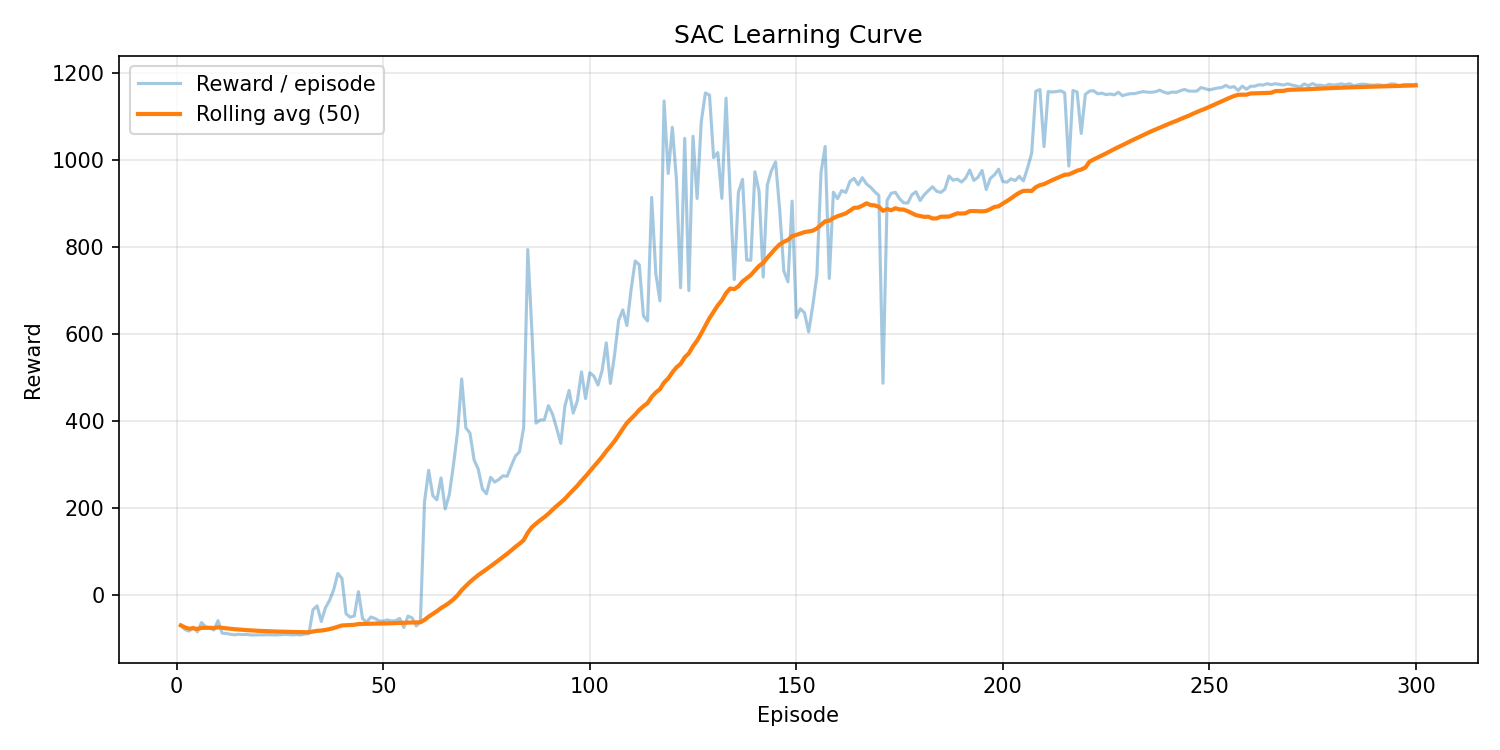
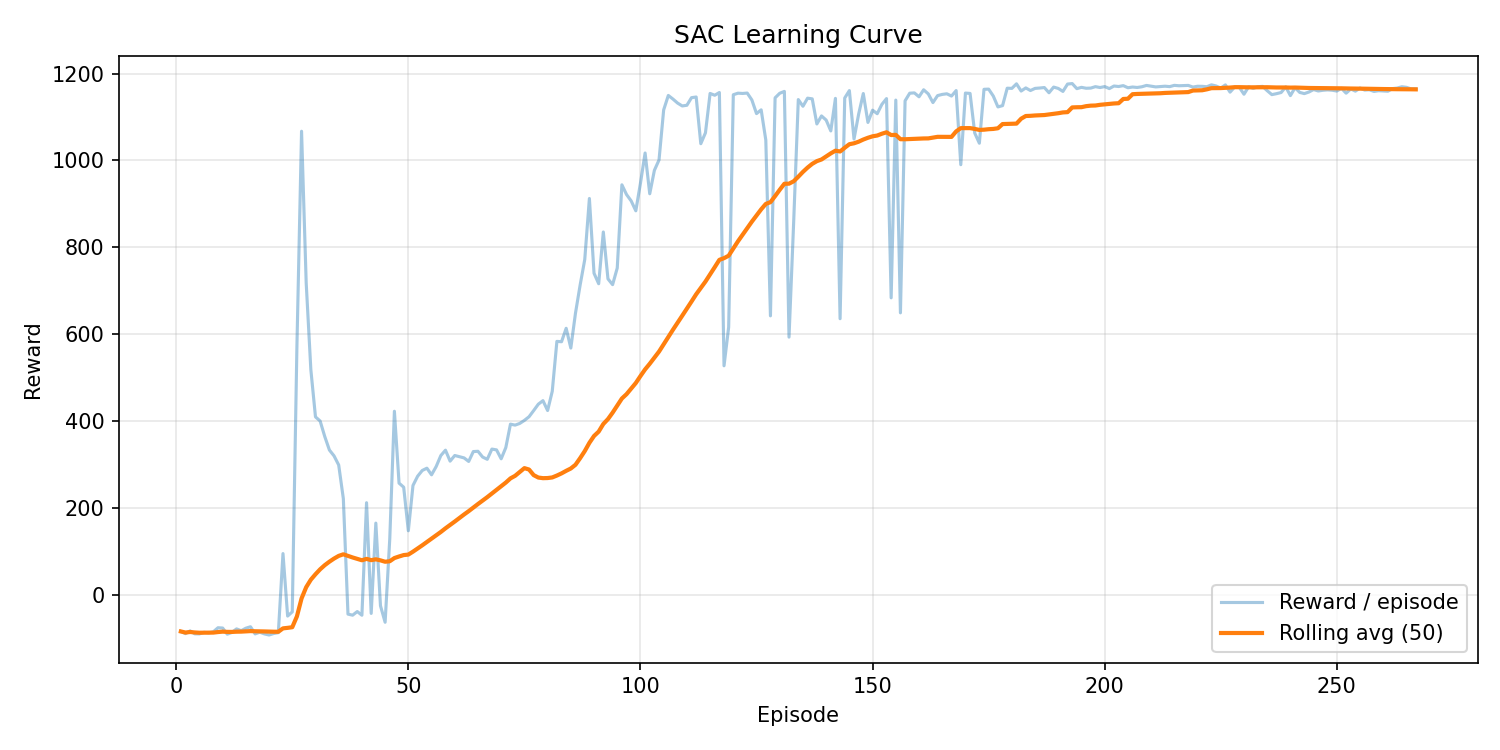
modelv2

diff --git a/train_sim.py b/train_sim.py
@@ -17,11 +17,19 @@ def train(
     save_every,
     live_plot_enabled,
     plot_update_every,
+    train_fall_angle_deg,
+    no_domain_randomization,
 ):
-    env = InvertedPendulumEnv()
+    env = InvertedPendulumEnv(
+        fall_angle_deg=train_fall_angle_deg,
+        domain_randomization=not no_domain_randomization,
+    )
     agent = SACAgent(obs_dim=env.obs_dim, act_dim=env.act_dim)
 
     rewards = []
+    best_avg = -np.inf
+    best_path = save_path.with_name("actor_best.pt")
+    checkpoint_dir = save_path.parent / "checkpoints"
     live_plot = LivePlotter(
         rolling_window=rolling_window,
         enabled=live_plot_enabled,
@@ -51,8 +59,22 @@ def train(
             )
             live_plot.update(rewards, force=(ep == 1))
 
+            if rolling > best_avg:
+                best_avg = rolling
+                best_path.parent.mkdir(parents=True, exist_ok=True)
+                agent.save_actor(str(best_path))
+                print(f"New best checkpoint: {best_path} (Avg{rolling_window}={best_avg:.2f})")
+
             if save_every > 0 and ep % save_every == 0:
-                persist_training_state(agent, rewards, save_path, plot_path, rolling_window)
+                checkpoint_path = checkpoint_dir / f"actor_ep{ep:04d}.pt"
+                persist_training_state(
+                    agent,
+                    rewards,
+                    save_path,
+                    plot_path,
+                    rolling_window,
+                    checkpoint_path=checkpoint_path,
+                )
                 print(f"Checkpoint saved at episode {ep}")
     except KeyboardInterrupt:
         print("\nTraining interrupted by user (Ctrl+C). Saving current state...")
@@ -60,12 +82,20 @@ def train(
         persist_training_state(agent, rewards, save_path, plot_path, rolling_window)
         live_plot.close()
         print(f"Saved training state after {completed_episodes} episodes.")
+        if best_avg > -np.inf:
+            print(f"Best rolling average: {best_avg:.2f} -> {best_path}")
 
 
-def persist_training_state(agent, rewards, save_path, plot_path, rolling_window):
+def persist_training_state(
+    agent, rewards, save_path, plot_path, rolling_window, checkpoint_path=None
+):
     save_path.parent.mkdir(parents=True, exist_ok=True)
     agent.save_actor(str(save_path))
     print(f"Saved actor weights: {save_path}")
+    if checkpoint_path is not None:
+        checkpoint_path.parent.mkdir(parents=True, exist_ok=True)
+        agent.save_actor(str(checkpoint_path))
+        print(f"Saved episode checkpoint: {checkpoint_path}")
     save_learning_plot(rewards, plot_path, rolling_window)
 
 
@@ -188,6 +218,17 @@ def parse_args():
         default=5,
         help="Update live plot every N episodes.",
     )
+    parser.add_argument(
+        "--train-fall-angle-deg",
+        type=float,
+        default=30.0,
+        help="Fall angle threshold used in simulation training environment.",
+    )
+    parser.add_argument(
+        "--no-domain-randomization",
+        action="store_true",
+        help="Disable sim domain randomization (not recommended for transfer).",
+    )
     return parser.parse_args()
 
 
@@ -202,5 +243,7 @@ if __name__ == "__main__":
         args.save_every,
         not args.no_live_plot,
         args.plot_update_every,
+        args.train_fall_angle_deg,
+        args.no_domain_randomization,
     )
 

diff --git a/rl/envs.py b/rl/envs.py
@@ -14,29 +14,49 @@ class InvertedPendulumEnv:
     Action: normalized in [-1, 1], internally scaled to force.
     """
 
-    def __init__(self):
+    def __init__(self, fall_angle_deg=30.0, domain_randomization=True):
         self.g = 9.81
 
         # Component masses from user-provided data:
         # motors: 2 x 160g, rpi: 55g, case: 466g, battery: 250g.
-        self.m = 0.320  # wheels+motors [kg]
-        self.M = 0.771  # body [kg]
+        self.m_nominal = 0.320  # wheels+motors [kg]
+        self.M_nominal = 0.771  # body [kg]
 
-        self.l = 0.15
+        self.l_nominal = 0.15
         self.dt = 0.01
-        self.force_max = 10.0
-        self.theta_max = np.radians(35)
+        self.force_max_nominal = 10.0
+        self.theta_max = np.radians(float(fall_angle_deg))
+        self.domain_randomization = bool(domain_randomization)
 
         self.state = None
+        self.m = self.m_nominal
+        self.M = self.M_nominal
+        self.l = self.l_nominal
+        self.force_max = self.force_max_nominal
         self.obs_dim = 4
         self.act_dim = 1
         self.reset()
 
     def reset(self):
+        self._resample_dynamics()
         self.state = np.array([0.0, 0.0, np.radians(np.random.uniform(-2, 2)), 0.0])
         if np.random.rand() < 0.05:
             self.state[3] += np.random.uniform(-0.5, 0.5)
         return self._to_obs(self.state)
+
+    def _resample_dynamics(self):
+        if not self.domain_randomization:
+            self.m = self.m_nominal
+            self.M = self.M_nominal
+            self.l = self.l_nominal
+            self.force_max = self.force_max_nominal
+            return
+
+        # Sim-to-real randomization for better transfer robustness.
+        self.m = self.m_nominal * np.random.uniform(0.9, 1.1)
+        self.M = self.M_nominal * np.random.uniform(0.9, 1.1)
+        self.l = self.l_nominal * np.random.uniform(0.9, 1.1)
+        self.force_max = self.force_max_nominal * np.random.uniform(0.85, 1.15)
 
     def _to_obs(self, state):
         x, x_dot, theta, theta_dot = state
@@ -90,6 +110,7 @@ class RaspberryBalanceRuntime:
         encoder_step_to_m=0.0005,
         gyro_bias_dps=0.0,
         accel_pitch_bias_rad=0.0,
+        fall_angle_deg=25.0,
     ):
         self.imu = BMI160(bus_id=bus_id)
         self.drive = DriveModule()
@@ -100,6 +121,7 @@ class RaspberryBalanceRuntime:
         self.encoder_step_to_m = float(encoder_step_to_m)
         self.gyro_bias_dps = float(gyro_bias_dps)
         self.accel_pitch_bias_rad = float(accel_pitch_bias_rad)
+        self.fall_angle_rad = np.radians(float(fall_angle_deg))
 
         self.pitch = 0.0
         self.pitch_rate = 0.0
@@ -161,7 +183,7 @@ class RaspberryBalanceRuntime:
 
         time.sleep(self.loop_dt)
         obs = self._get_obs()
-        done = abs(obs[0]) > np.radians(35)
+        done = abs(obs[0]) > self.fall_angle_rad
         reward = 0.0
         return obs, reward, done
 

diff --git a/run_policy_pi.py b/run_policy_pi.py
@@ -34,6 +34,7 @@ def run(
         loop_hz=loop_hz,
         gyro_bias_dps=float(calibration.get("gyro_bias_dps", 0.0)),
         accel_pitch_bias_rad=float(calibration.get("accel_pitch_bias_rad", 0.0)),
+        fall_angle_deg=tilt_limit_deg,
     )
     agent = SACAgent(obs_dim=env.obs_dim, act_dim=env.act_dim)
     agent.load_actor(actor_path)

diff --git a/README.md b/README.md
@@ -36,11 +36,20 @@ python train_sim.py --episodes 1000 --max-steps 1000
 
 This saves actor weights to `artifacts/actor_sim.pt`.
 It also saves a learning plot to `artifacts/learning_curve.png`.
+Best rolling-average checkpoint is saved to `artifacts/actor_best.pt`.
+Periodic checkpoints are saved to `artifacts/checkpoints/`.
 
 Optional plotting args:
 
 ```bash
 python train_sim.py --plot-path artifacts/my_curve.png --rolling-window 100
+```
+
+Set training fall angle and randomization behavior:
+
+```bash
+python train_sim.py --train-fall-angle-deg 25
+python train_sim.py --no-domain-randomization
 ```
 
 ## Export policy